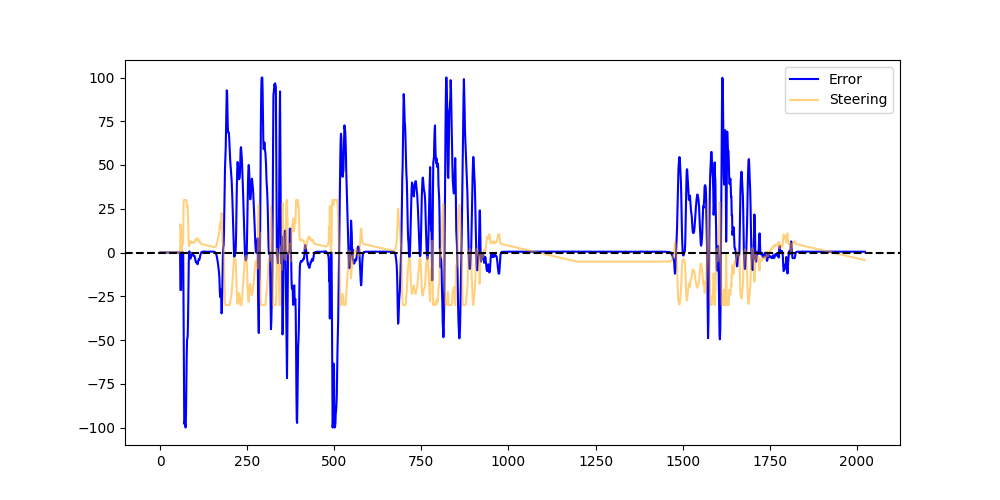
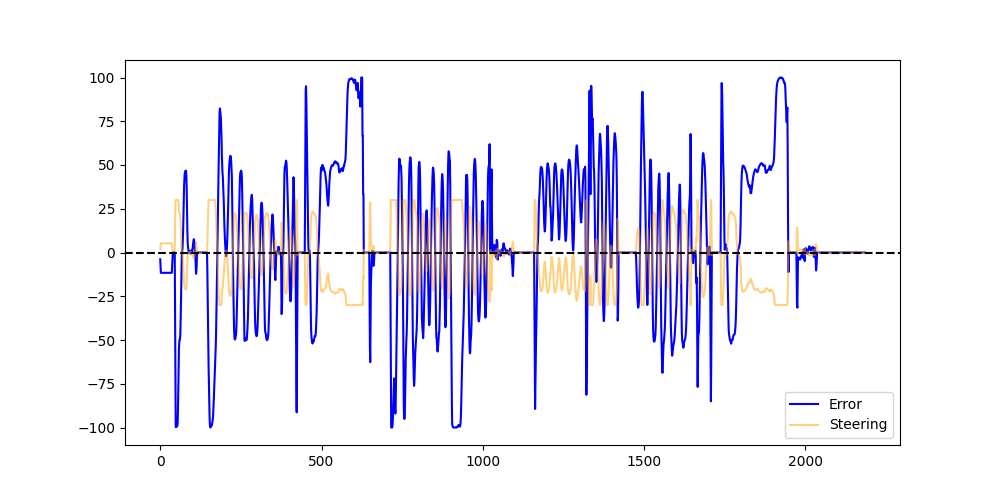
Adjust BASE_SPEED for improved control and remove PID calibration plot saving

diff --git a/control/pid/pid.py b/control/pid/pid.py
@@ -19,7 +19,7 @@ KP = 0.45
 KI = 0.0 
 KD = 0.05  
 
-BASE_SPEED = 30     
+BASE_SPEED = 20    
 MAX_STEER = 30
 LOOP_INTERVAL = 0.01
 
@@ -111,14 +111,6 @@ def main():
     finally:
         px.stop()
         print("Stopped.")
-        
-        plt.figure(figsize=(10,5))
-        plt.plot(history_pv, label='Error', color='blue')
-        plt.plot(history_steering, label='Steering', color='orange', alpha=0.5)
-        plt.axhline(0, color='black', linestyle='--')
-        plt.legend()
-        plt.savefig('pid_calibration.png')
-        print("Saved plot.")
 
 if __name__ == "__main__":
     main()
